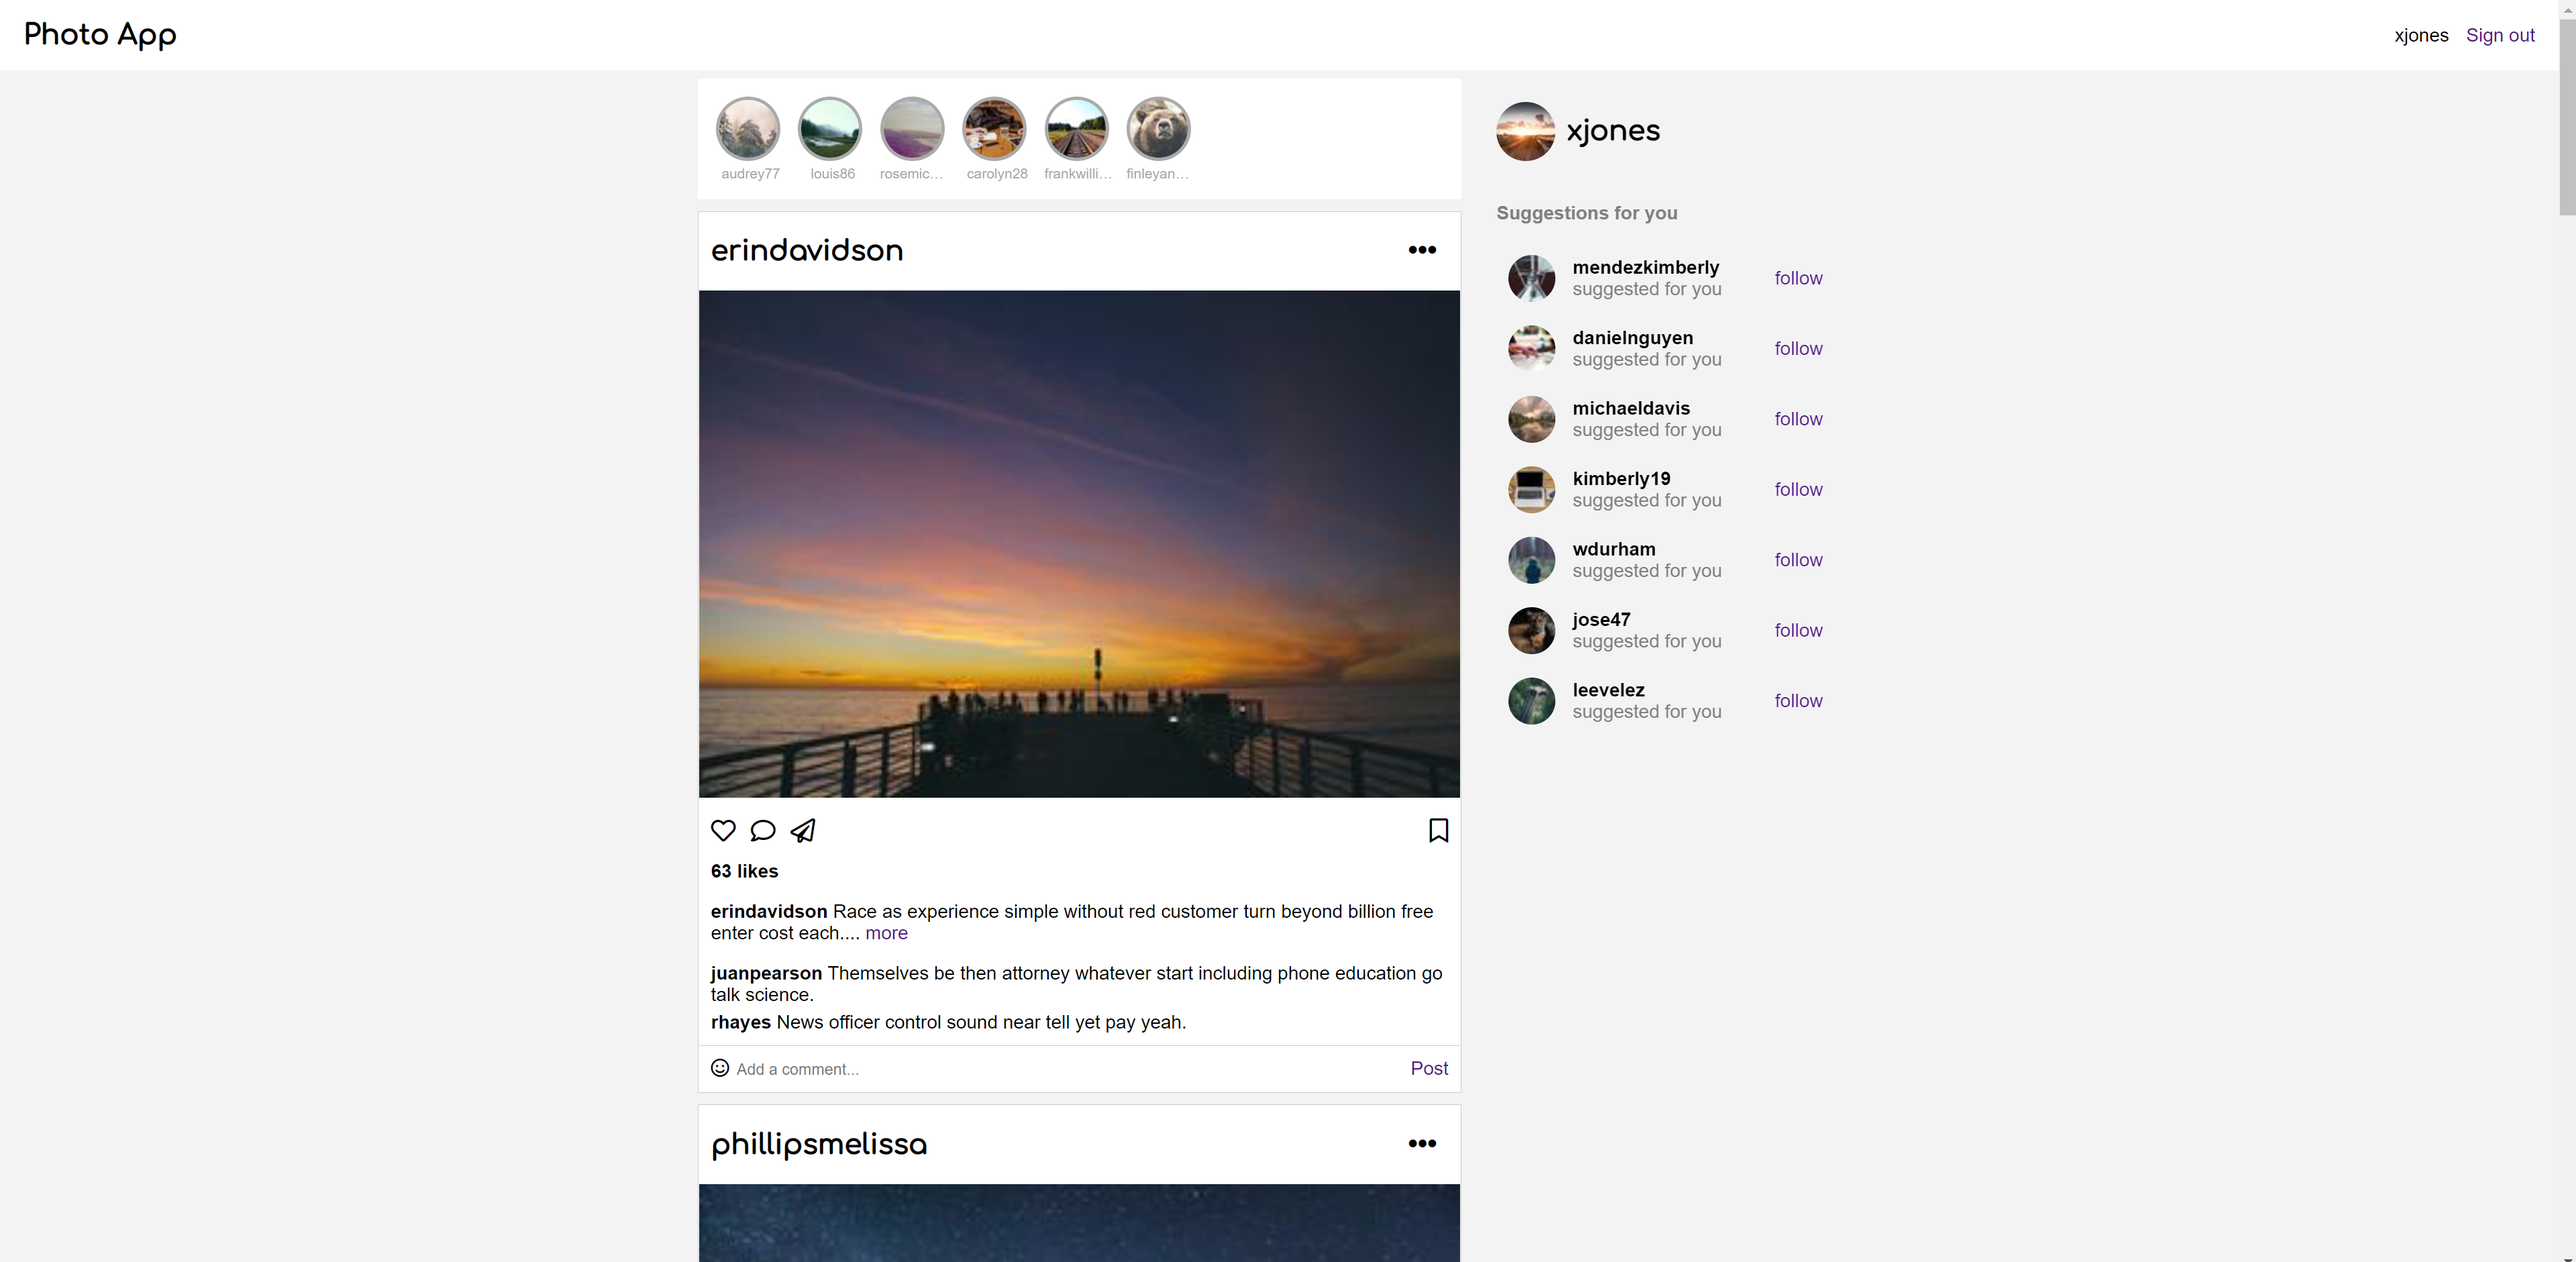
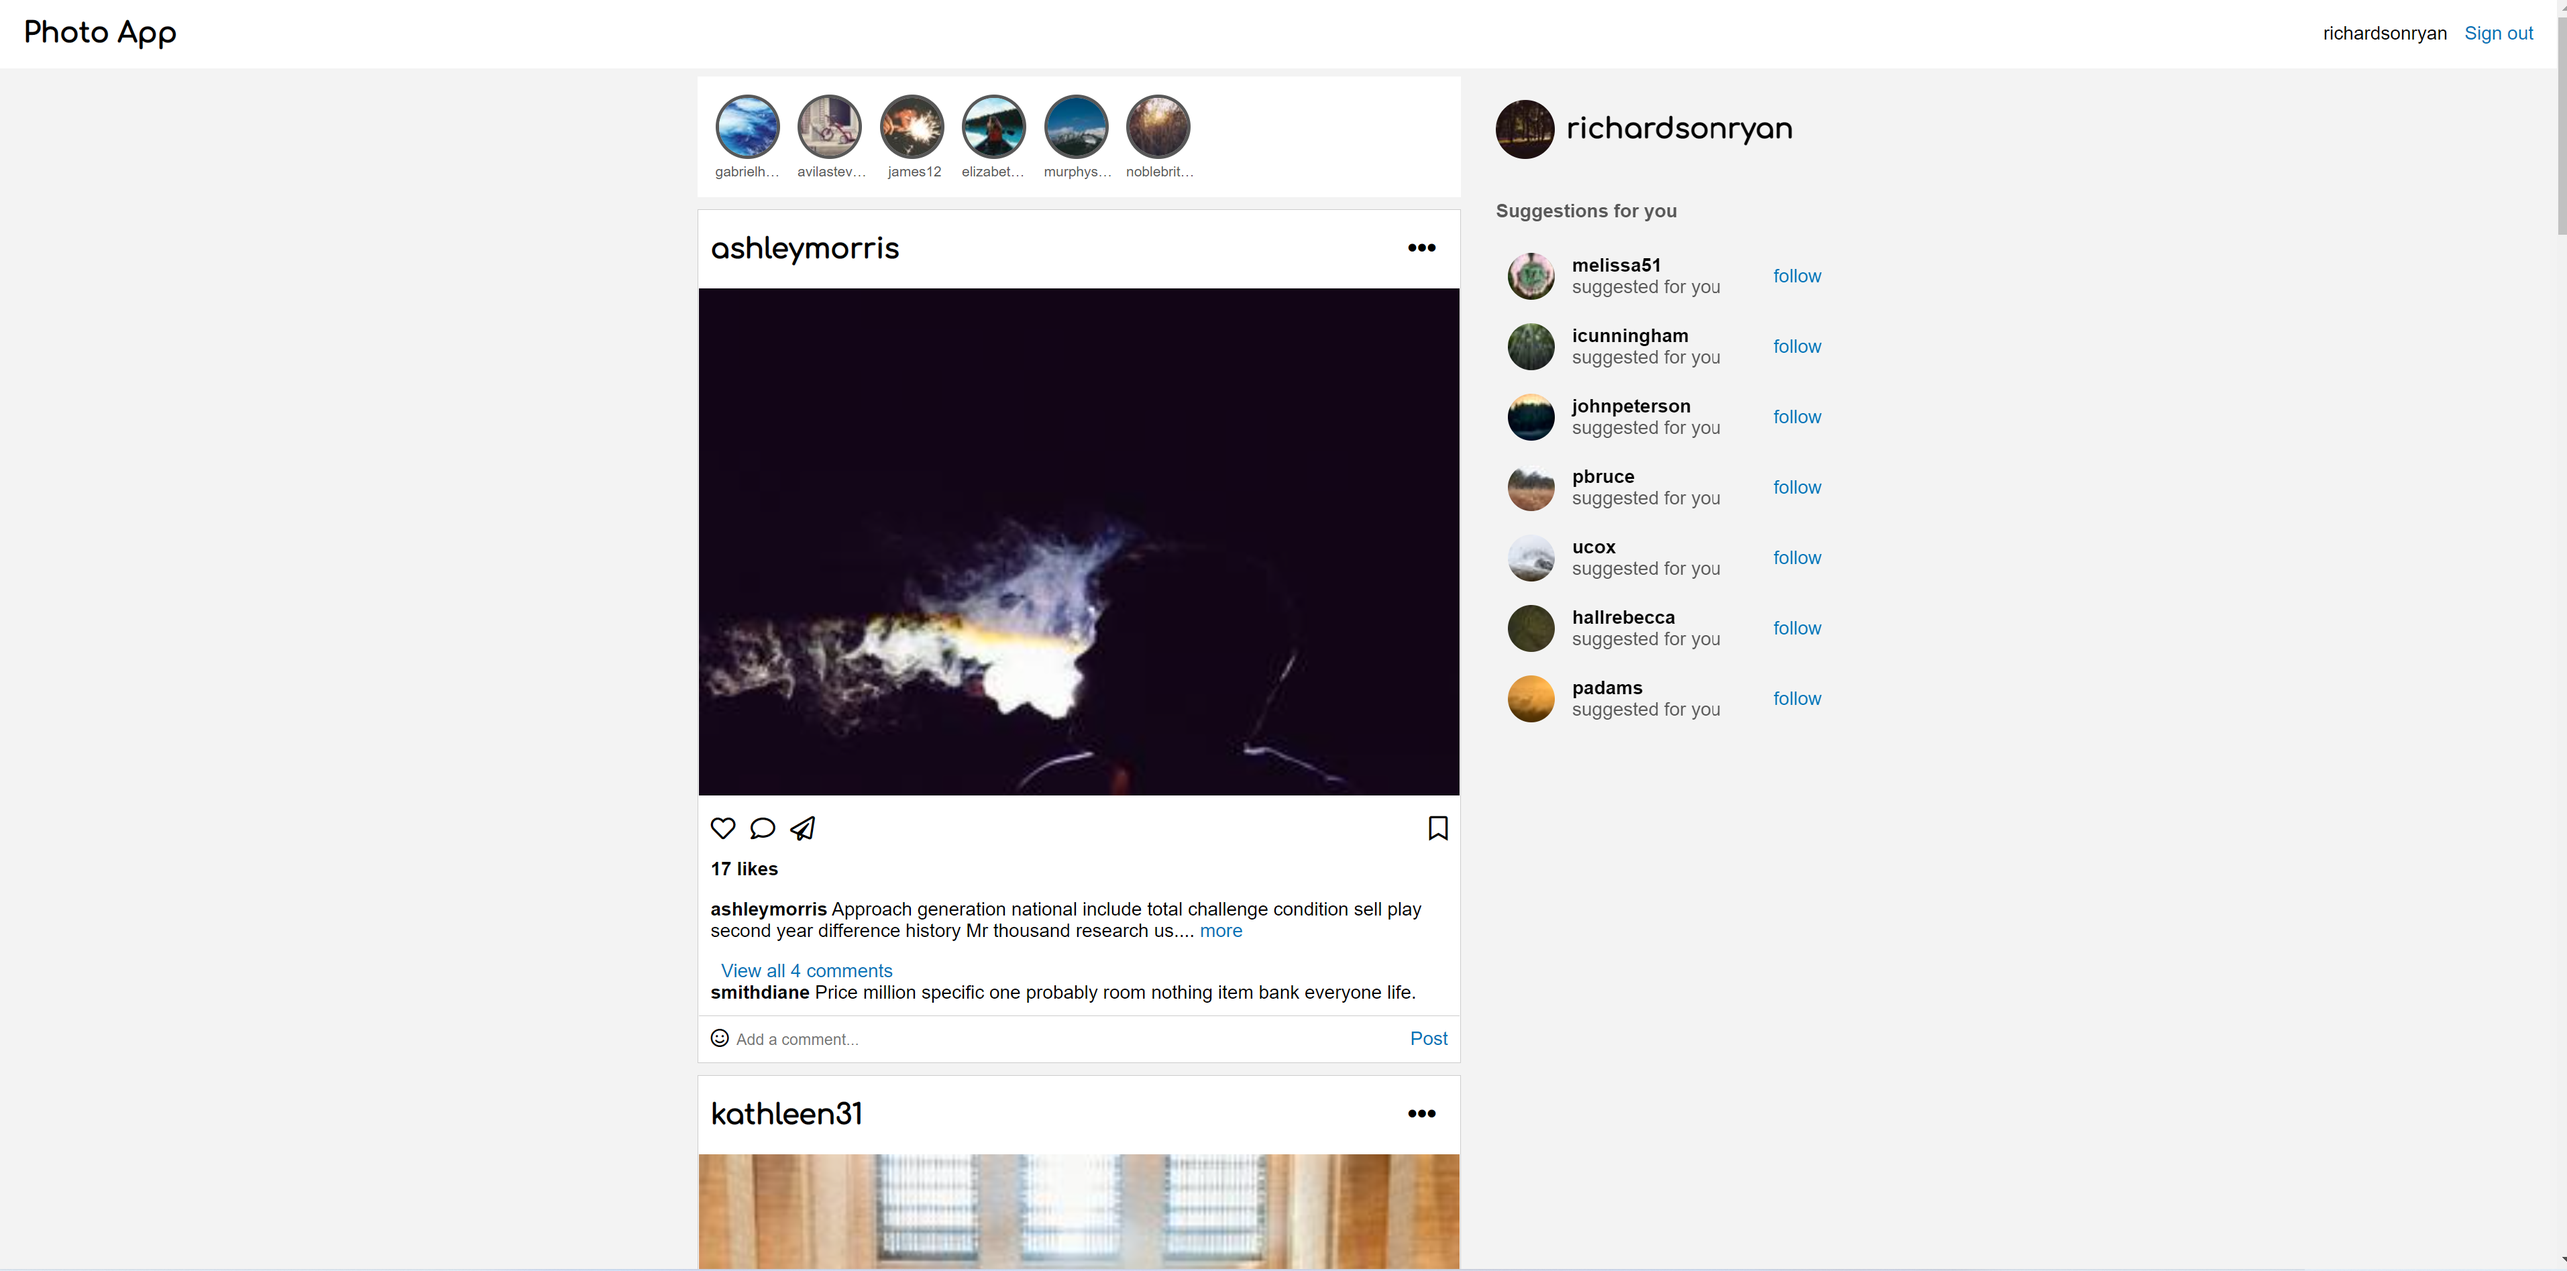
Minor Bug Fix Toward HW Requirement

diff --git a/templates/includes/cards.html b/templates/includes/cards.html
@@ -4,17 +4,17 @@
         <div>
             <h2>
                 <a class="invisibleLink" href="#">{{ post.user.username }}</a>
-                <a class="fas fa-ellipsis-h invisibleLink" href="#" style="float:right; margin-right: 10px;">
+                <a class="fas fa-ellipsis-h invisibleLink" href="#" aria-label="More Option" style="float:right; margin-right: 10px;">
                 </a>
             </h2>
         </div>
         <img alt="{{post.title}}" src="{{post.image_url}}" />
         <div>
             <p>
-                <a class="far fa-heart fa-lg invisibleLink" href="#"></a>&ensp;
-                <a class="far fa-comment fa-lg invisibleLink" href="#"></a>&ensp;
-                <a class="far fa-paper-plane fa-lg invisibleLink" href="#"></a>
-                <a class="far fa-bookmark fa-lg invisibleLink" href="#" style="float:right;"></a>
+                <a class="far fa-heart fa-lg invisibleLink" aria-label="Like the Post" href="#"></a>&ensp;
+                <a class="far fa-comment fa-lg invisibleLink" aria-label="View Comments" href="#"></a>&ensp;
+                <a class="far fa-paper-plane fa-lg invisibleLink" aria-label="Share" href="#"></a>
+                <a class="far fa-bookmark fa-lg invisibleLink" aria-label="Save" href="#" style="float:right;"></a>
             </p>
             <p class="likesCount">{{post.likes}} likes</p>
             <p>
@@ -22,15 +22,20 @@
                 <a href="#">more</a>
             </p>
             <div class="comments">
-                {% for comment in post.comments %}
-                <p><span class="username">{{comment.user.username}}</span> {{comment.text}}</p>
-                {% endfor %}
+            {% if post.comments|length == 1 %}
+                <p><span class="username">{{post.comments[0].user.username}}</span> {{post.comments[0].text}}</p>
+            {% elif post.comments|length > 1%}
+                <a href="#">&nbsp;&nbsp;View all {{post.comments|length}} comments</a>
+                <p><span class="username">{{post.comments[0].user.username}}</span> {{post.comments[0].text}}</p>
+            {% else %}
+                The post doesn't have a comment yet.
+            {% endif %}
             </div>
         </div>
         <div class="make_comments">
             <div class="make_comments_inside">
                 <i class="far fa-smile"></i>
-                <input type="text" class="make_comments_hint" placeholder="Add a comment..."> </input>
+                <input type="text" class="make_comments_hint" aria-label="Input your comment" placeholder="Add a comment..."> </input>
                 <a href="#" style="float:right;">Post</a>
             </div>
         </div>

diff --git a/templates/includes/suggestions.html b/templates/includes/suggestions.html
@@ -3,14 +3,14 @@
         <h2><img alt="{{ user.username }} Avatar" src="{{ user.profile_url }}" style="border-radius: 50%; margin-right: 10px;" /> {{ user.username }}</h2>
     </div>
     <div>
-        <p style="color: gray; font-weight: bold;">Suggestions for you</p>
+        <p style="color: #585858; font-weight: bold;">Suggestions for you</p>
         {% for suggestion in suggestions%}
         <div class="suggestedUsers">
 
             <img alt="{{ suggestion.username }} Avatar" src="{{ suggestion.thumb_url }}" />
             <div>
                 <span class="username">{{ suggestion.username }}</span><br>
-                <span style="color: gray; margin-right:30px">suggested for you</span>
+                <span style="color: #585858; margin-right:30px">suggested for you</span>
             </div>
             <a href="#" style="float:right;">follow</a>
         </div>

diff --git a/static/styles.css b/static/styles.css
@@ -16,11 +16,15 @@ h6 {
     font-family: "Comfortaa";
 }
 
-a:link {
-    color: #008ee2;
-    background-color: transparent;
+a:link, a:visited, a:active{
+    color: #0074b9;
     text-decoration: none;
 }
+
+a:hover {
+    color: #005c93;
+    text-decoration: none;
+  }
 
 body {
     font-family: Arial, Helvetica, sans-serif;
@@ -85,14 +89,14 @@ nav {
     border-radius: 50%;
     width: 55px;
     height: 55px;
-    border: 3px solid #aaaaaa;
+    border: 3px solid #585858;
 }
 
 .storyList p {
     margin: 0px;
     font-size: 9pt;
     text-align: center;
-    color: #aaaaaa;
+    color: #585858;
     white-space: nowrap;
     overflow: hidden;
     text-overflow: ellipsis;
